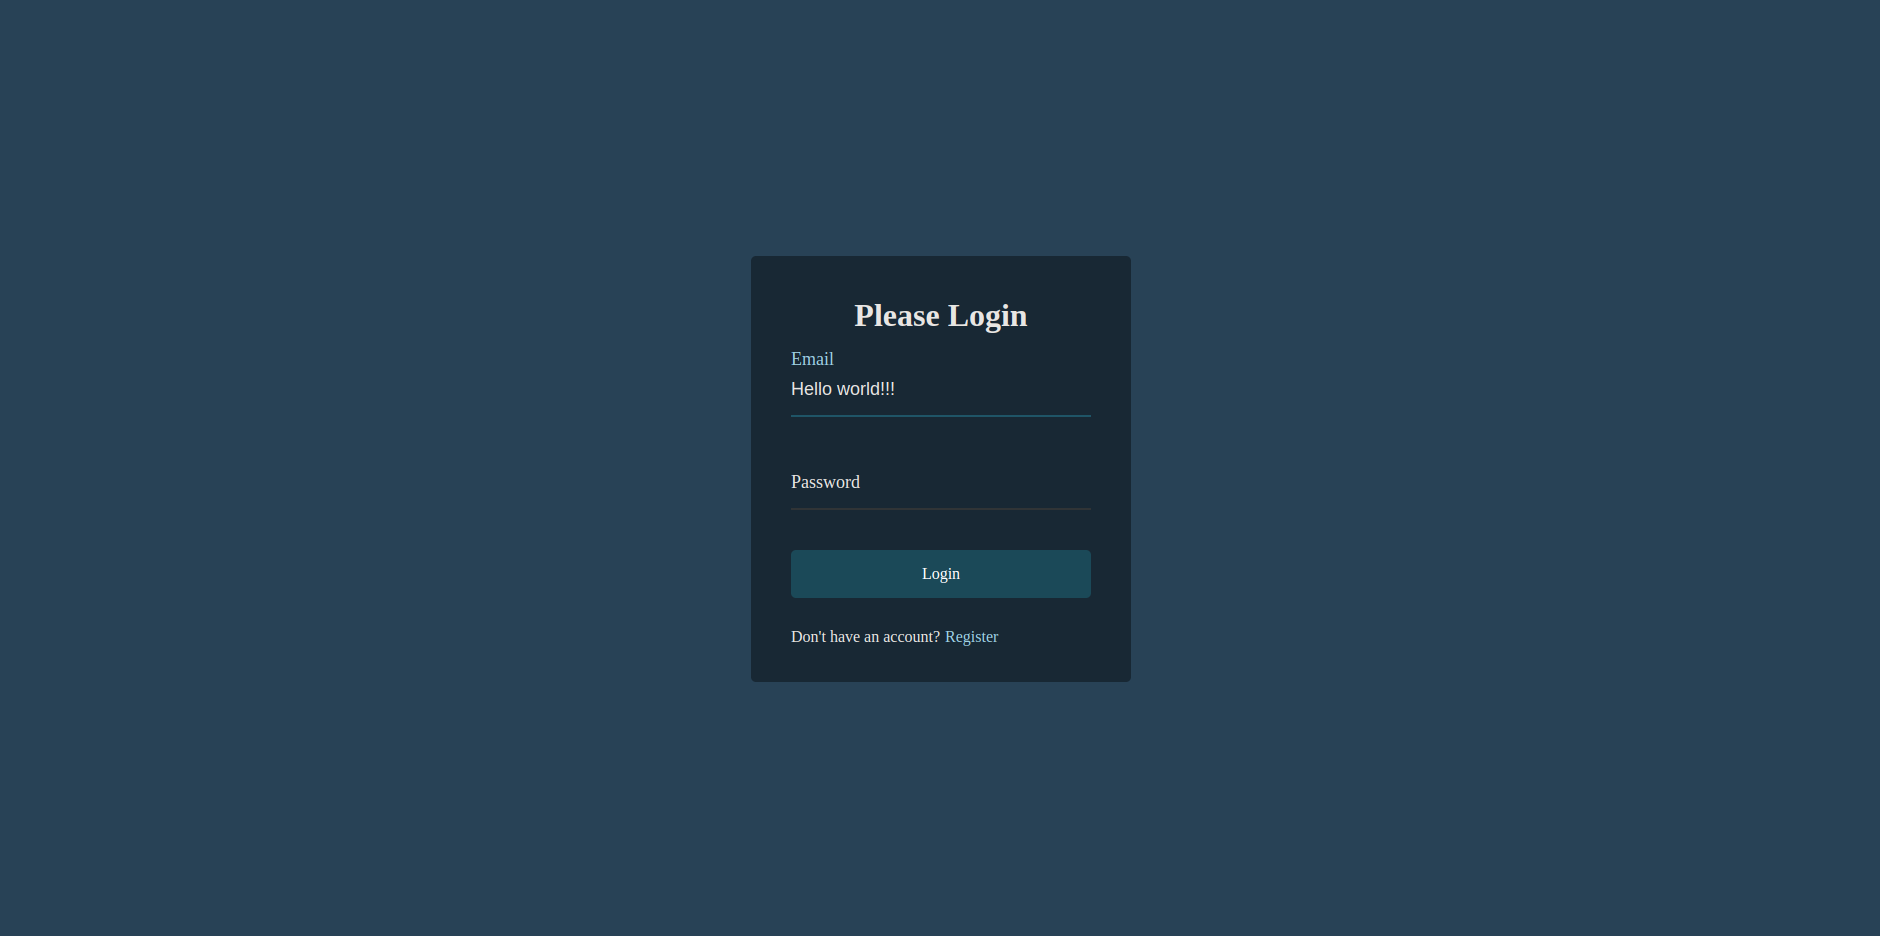
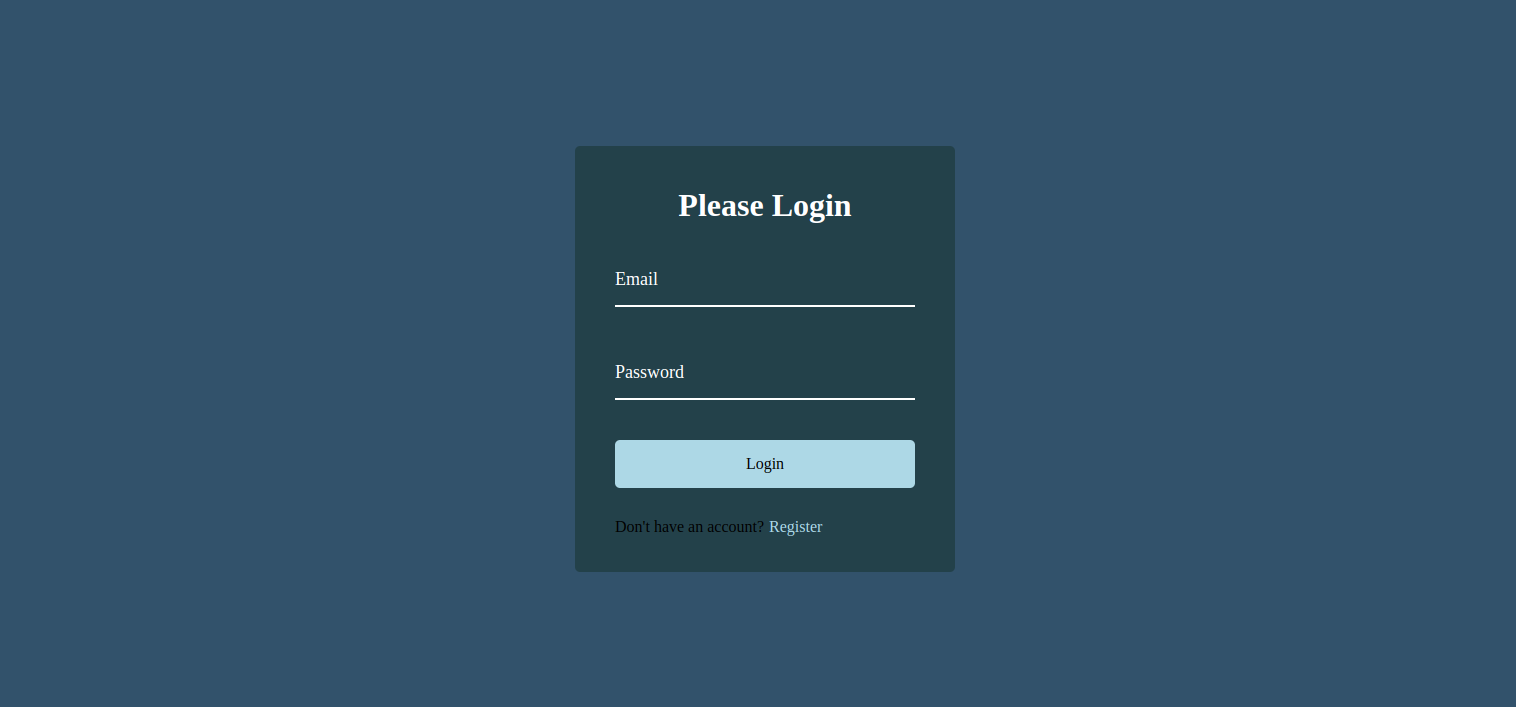
act some img

Changed region(s): [[0.372, 0.2489, 0.6201, 0.7779]]

diff --git a/day08/style.css b/day08/style.css
@@ -13,12 +13,13 @@ body {
   margin: 0;
 }
 .container {
-  background-color: rgba(0, 0, 0, 0.4);
+  background-color: rgba(12, 41, 24, 0.4);
   padding: 20px 40px;
   border-radius: 5px;
 }
 
 .container h1 {
+  color: #fff;
   text-align: center;
   margin-bottom: 30px;
 }
@@ -81,6 +82,7 @@ body {
   top: 15px;
   left: 0;
   pointer-events: none;
+  color: #fff;
 }
 
 .form-control label span {
